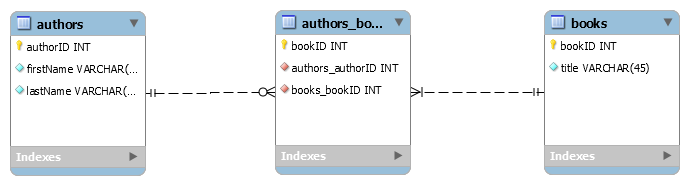
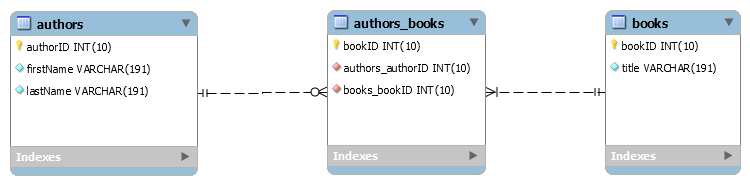
updated image and linked DBStructure.md to readme.md.

diff --git a/documentation/DBStructure.md b/documentation/DBStructure.md
@@ -1,6 +1,8 @@
 # DB Structure Diagram 
 
 ![DB Structure](DBStructure.png)
+###### Note that: 
+1. _The numbers inside the datatypes, e.g. `10` or `191` are set by MySQL._
 
 ## Addition: 
 1. To avoid spamming the authors_books table, a pair of `(authorID, bookID)` is set as an index called `Authorship` and is unique. 

diff --git a/readme.md b/readme.md
@@ -66,4 +66,4 @@ DB_PORT =   (optional)
 
 # I want to know more about: 
 1. [XML export methodology](documentation/XMLExport.md)
-2. [Database Structure Diagram](documentation/DBStructure.pdf)
+2. [Database Structure Diagram](documentation/DBStructure.md)
